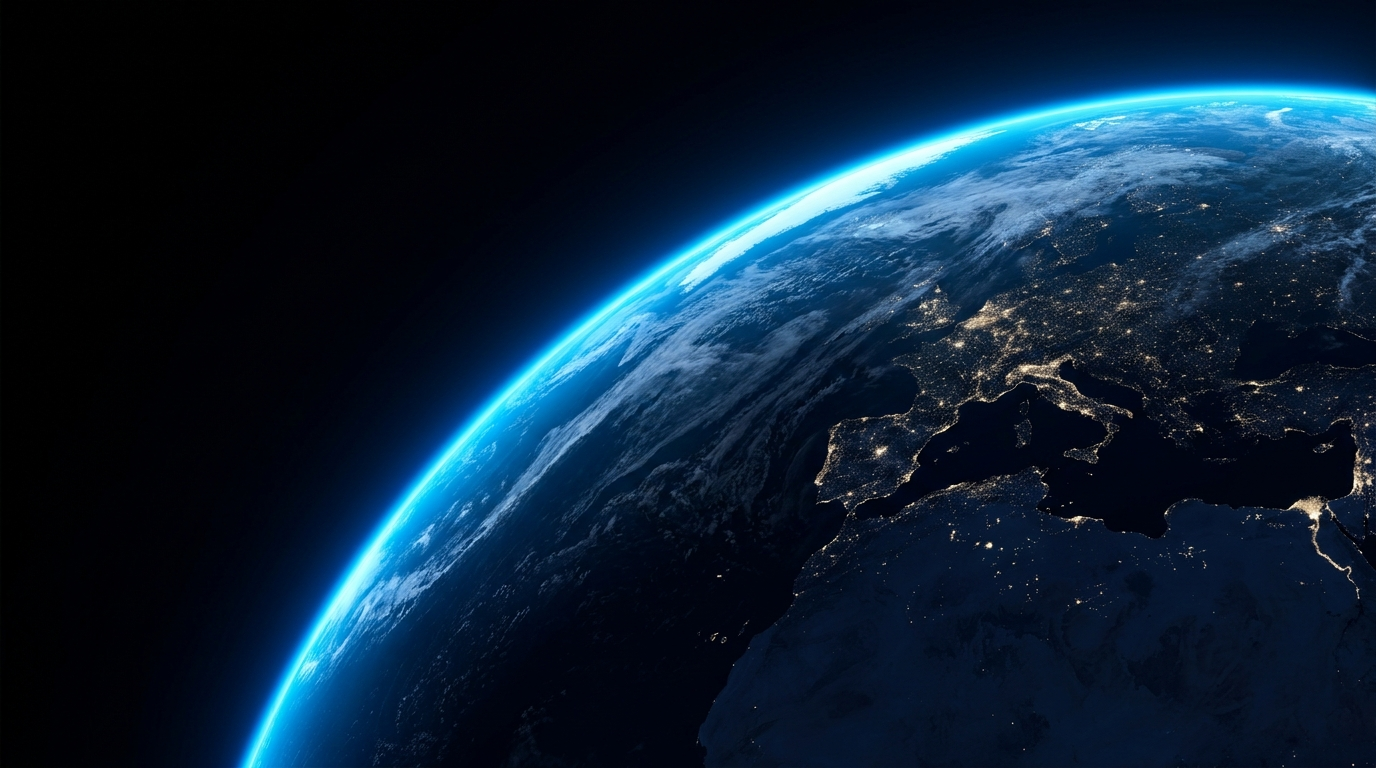
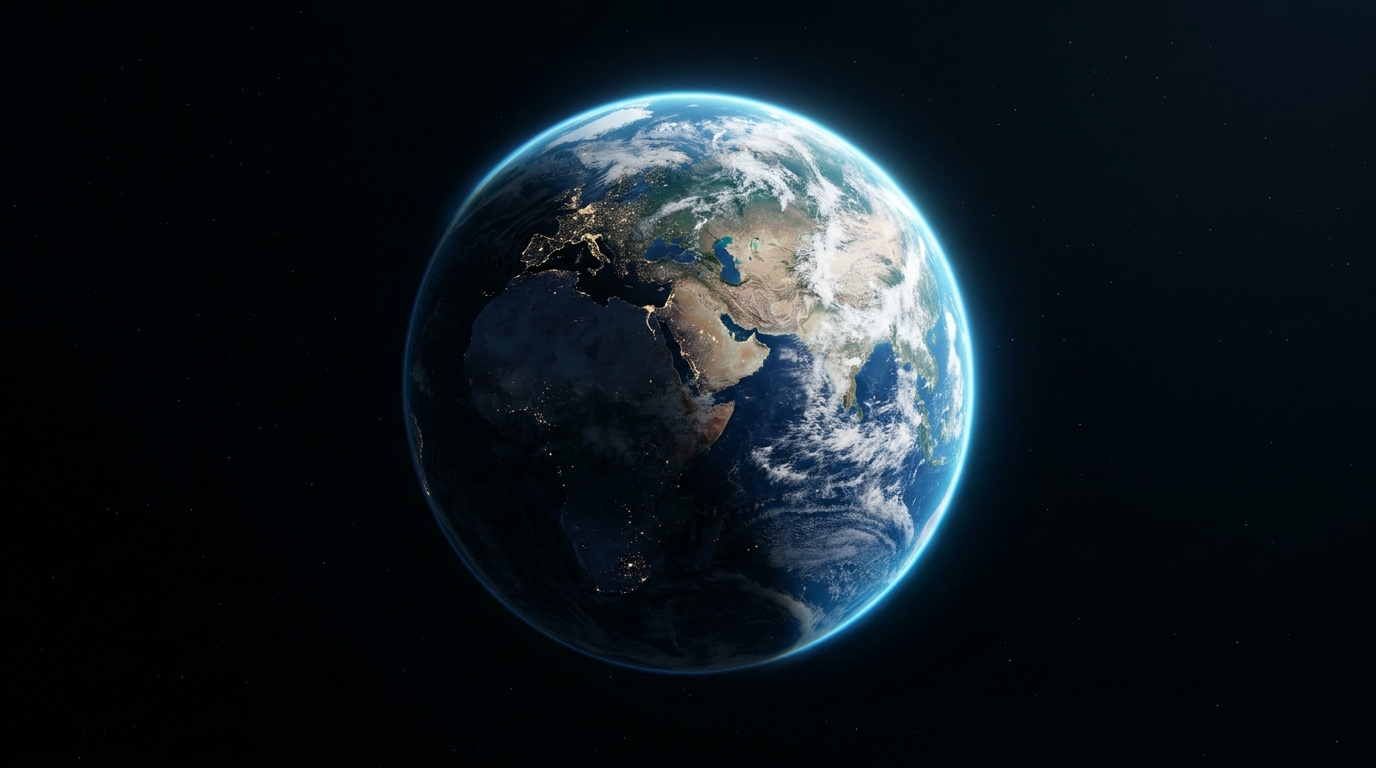
feat(dashboard): centered full globe Earth asset with distant perspective

diff --git a/nasa  2/src/styles.css b/nasa  2/src/styles.css
@@ -1281,38 +1281,36 @@ button {
    ========================================================================== */
 .views-earth-background {
   position: absolute;
-  top: -100px;
+  top: -80px;
   left: 50%;
-  right: auto;
   transform: translateX(-50%);
-  width: 1200px;
+  width: 1000px;
   max-width: 95vw;
-  height: 800px;
+  height: 650px;
   pointer-events: none;
   z-index: 0;
   overflow: hidden;
-  mask-image: radial-gradient(ellipse 60% 60% at 50% 45%, black 35%, rgba(0, 0, 0, 0.4) 65%, transparent 100%);
-  -webkit-mask-image: radial-gradient(ellipse 60% 60% at 50% 45%, black 35%, rgba(0, 0, 0, 0.4) 65%, transparent 100%);
+  mask-image: radial-gradient(circle 320px at 50% 48%, black 45%, rgba(0, 0, 0, 0.4) 75%, transparent 100%);
+  -webkit-mask-image: radial-gradient(circle 320px at 50% 48%, black 45%, rgba(0, 0, 0, 0.4) 75%, transparent 100%);
 }
 
 .views-earth-img {
   position: absolute;
-  top: 0;
+  top: 50%;
   left: 50%;
-  transform: translateX(-50%) scale(1.02);
+  transform: translate(-50%, -50%);
   width: 100%;
   height: 100%;
-  object-fit: cover;
-  object-position: center 35%;
-  opacity: 0.65;
-  filter: contrast(1.15) brightness(0.95);
+  object-fit: contain;
+  opacity: 0.75;
+  filter: contrast(1.15) brightness(1.02);
 }
 
 .views-earth-atmosphere {
   position: absolute;
   inset: 0;
-  background: radial-gradient(circle at 50% 45%, rgba(0, 210, 255, 0.16) 0%, rgba(0, 80, 220, 0.08) 45%, transparent 70%);
-  filter: blur(40px);
+  background: radial-gradient(circle at 50% 50%, rgba(0, 210, 255, 0.18) 0%, rgba(0, 80, 220, 0.06) 40%, transparent 68%);
+  filter: blur(35px);
   pointer-events: none;
   opacity: 0.85;
 }
